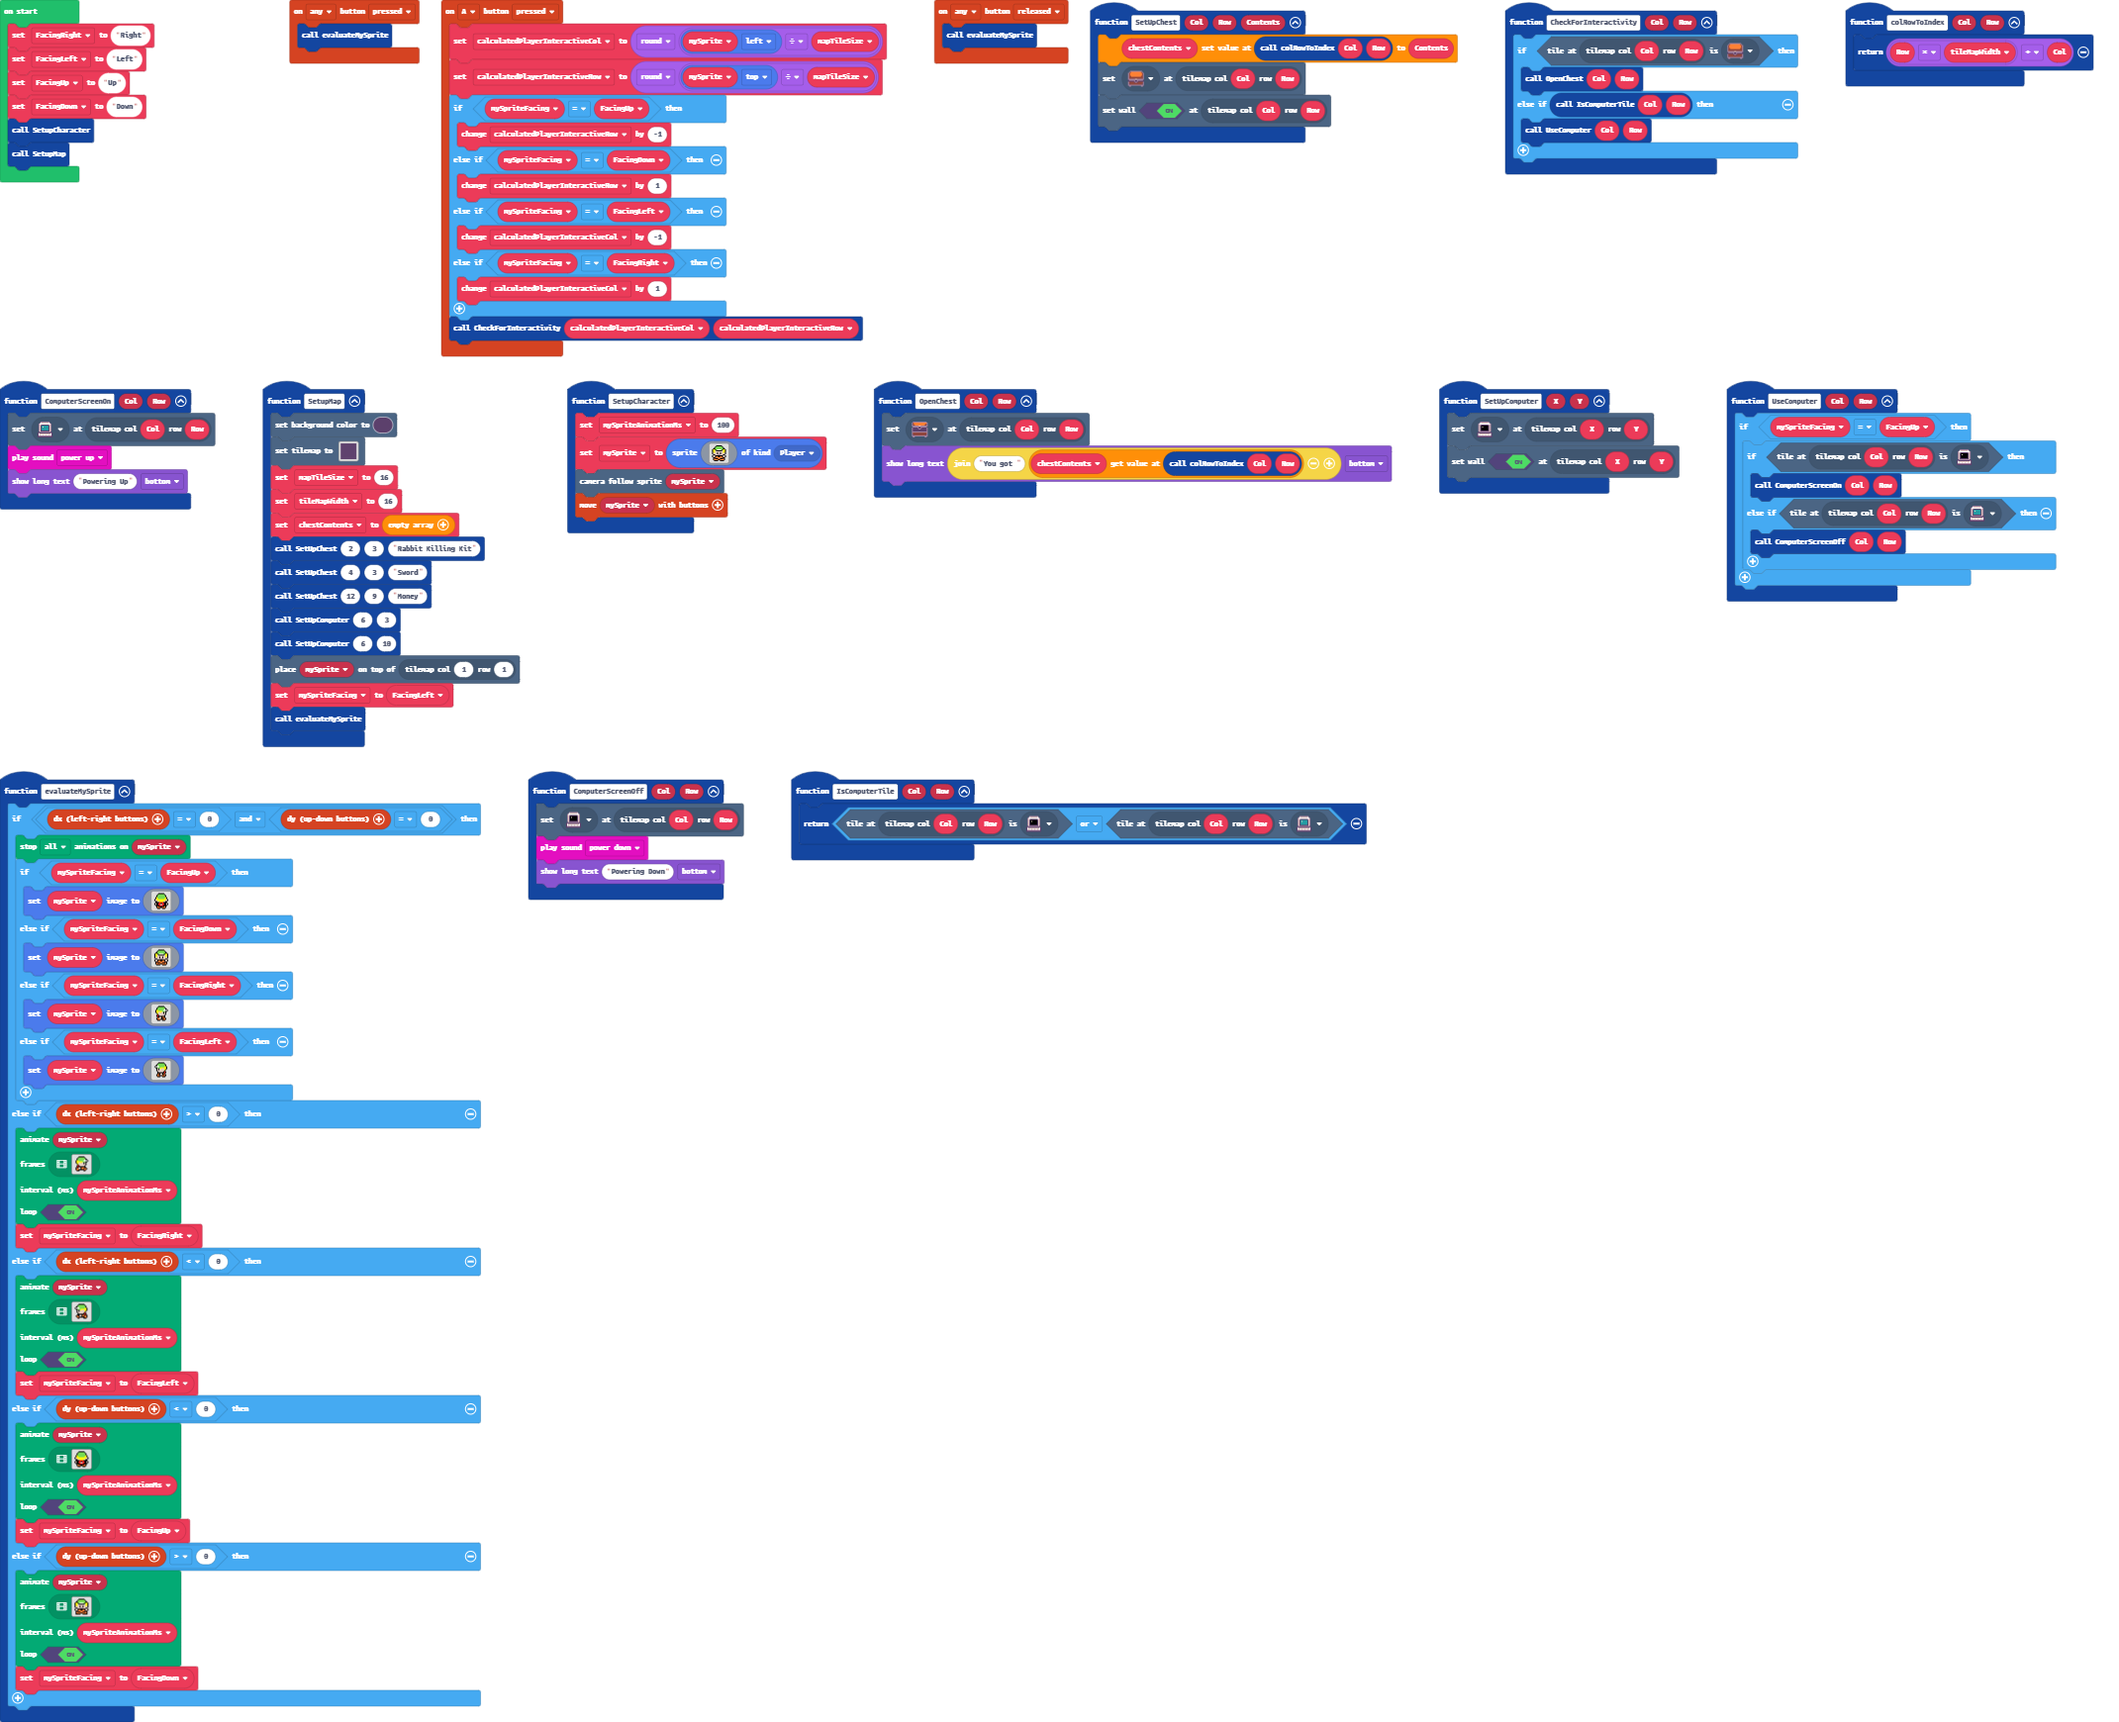
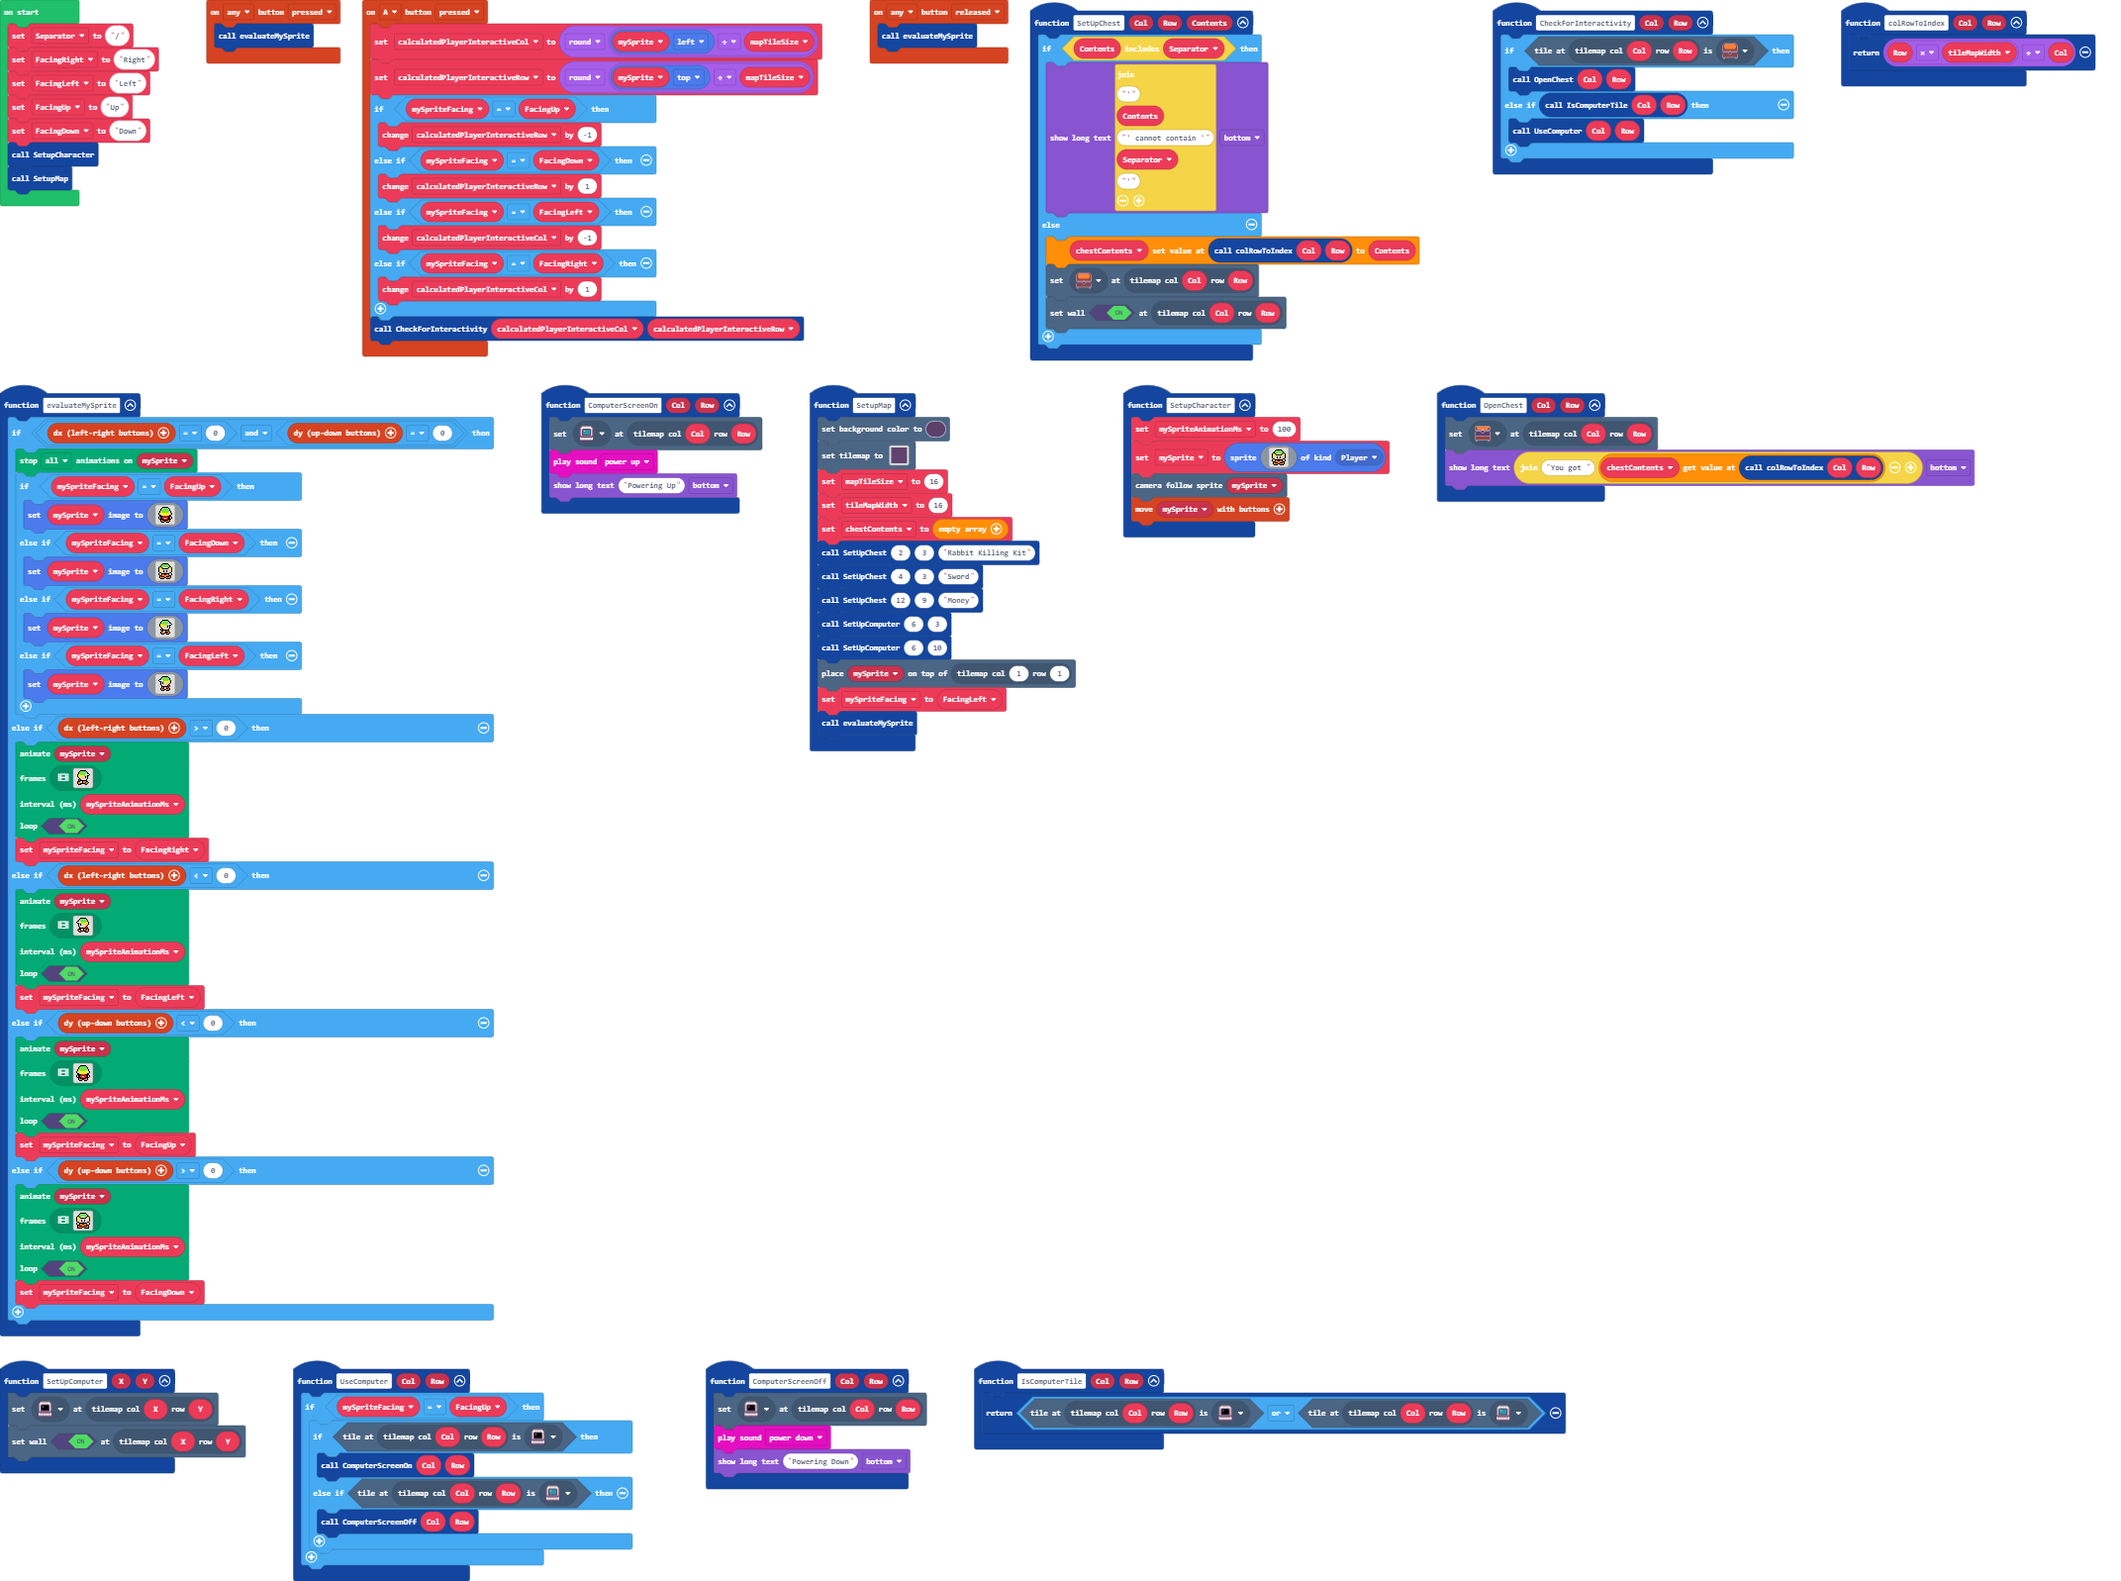
Update pxt.json, main.blocks, main.ts

Changed region(s): [[0.0, 0.0, 0.9865, 1.0], [0.2158, 0.6443, 0.2466, 0.675]]

diff --git a/main.ts b/main.ts
@@ -2,9 +2,13 @@ namespace SpriteKind {
     export const Chest = SpriteKind.create()
 }
 function SetUpChest (Col: number, Row: number, Contents: string) {
-    chestContents[colRowToIndex(Col, Row)] = Contents
-    tiles.setTileAt(tiles.getTileLocation(Col, Row), assets.tile`chestClosed`)
-    tiles.setWallAt(tiles.getTileLocation(Col, Row), true)
+    if (Contents.includes(Separator)) {
+        game.showLongText("'" + Contents + "' cannot contain '" + Separator + "'", DialogLayout.Bottom)
+    } else {
+        chestContents[colRowToIndex(Col, Row)] = Contents
+        tiles.setTileAt(tiles.getTileLocation(Col, Row), assets.tile`chestClosed`)
+        tiles.setWallAt(tiles.getTileLocation(Col, Row), true)
+    }
 }
 function OpenChest (Col: number, Row: number) {
     tiles.setTileAt(tiles.getTileLocation(Col, Row), assets.tile`chestOpen`)
@@ -417,6 +421,8 @@ let FacingDown = ""
 let FacingUp = ""
 let FacingLeft = ""
 let FacingRight = ""
+let Separator = ""
+Separator = "/"
 FacingRight = "Right"
 FacingLeft = "Left"
 FacingUp = "Up"
